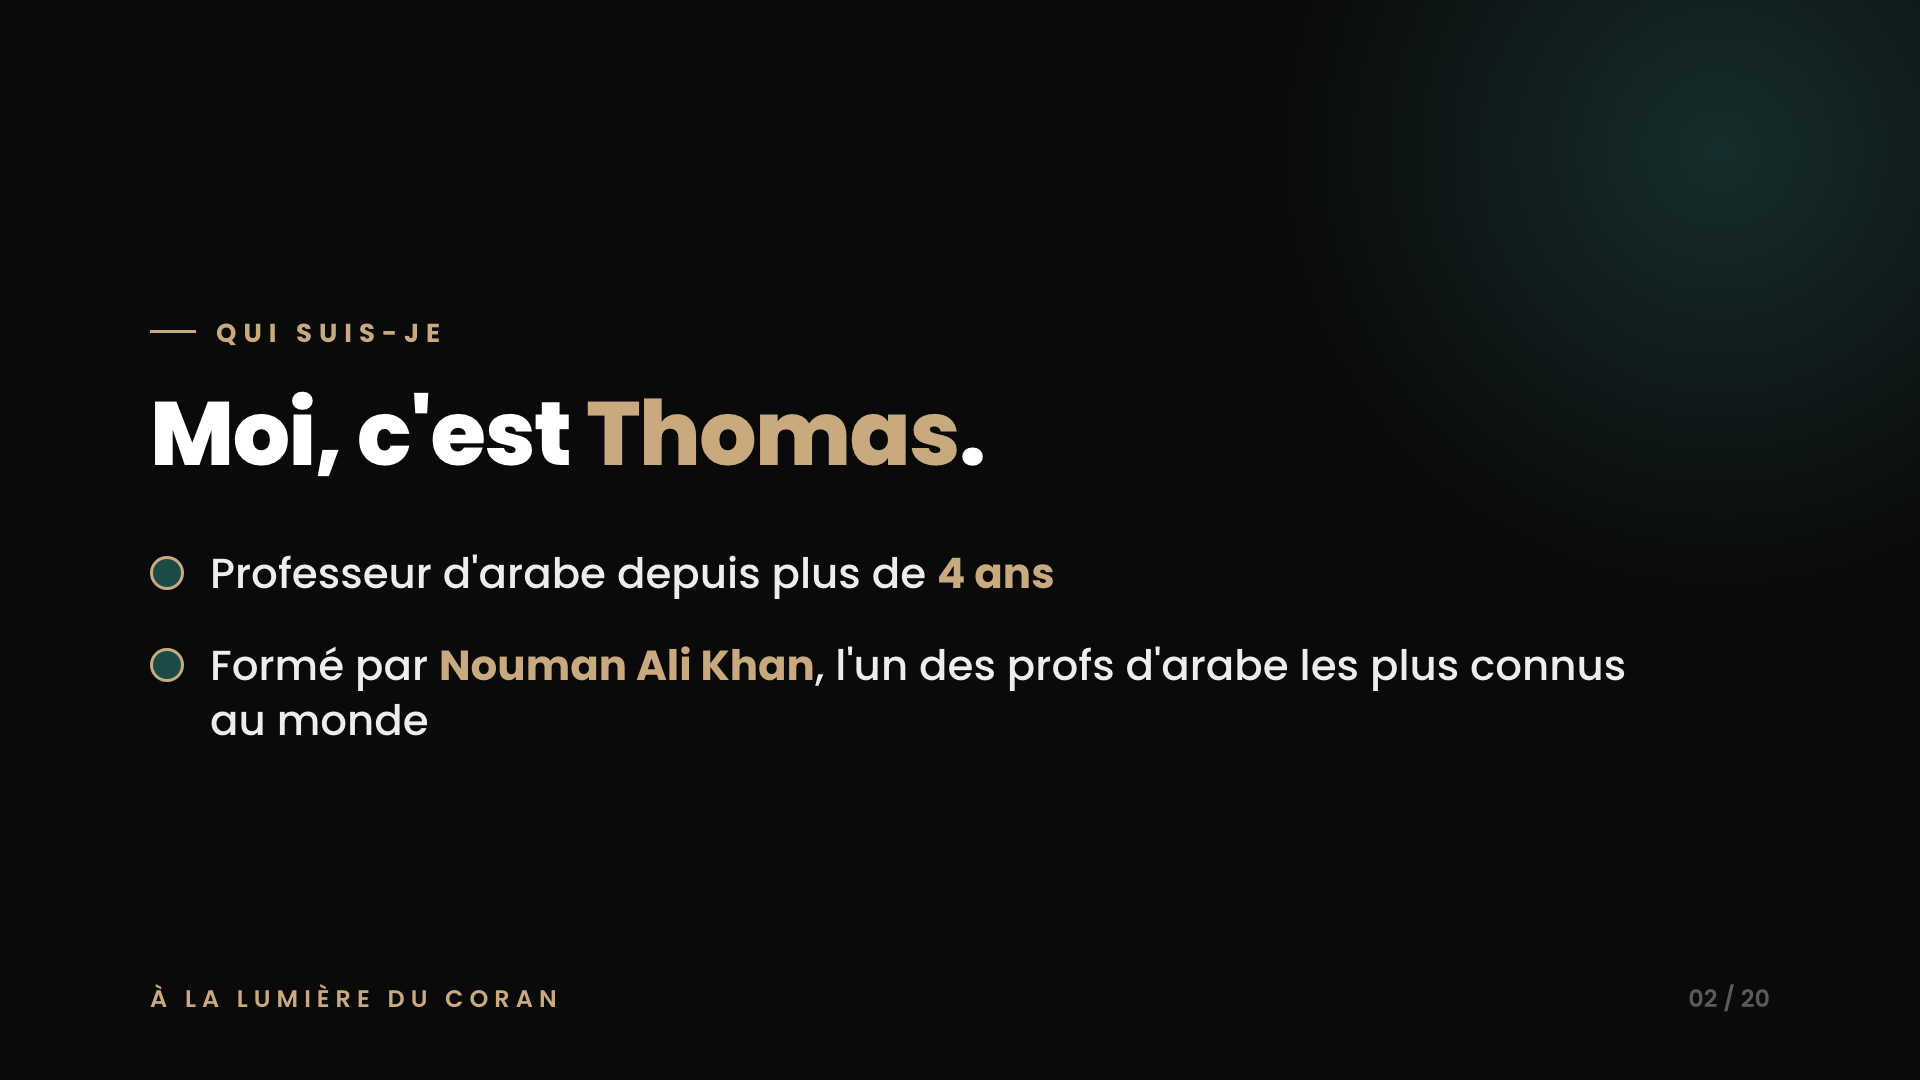
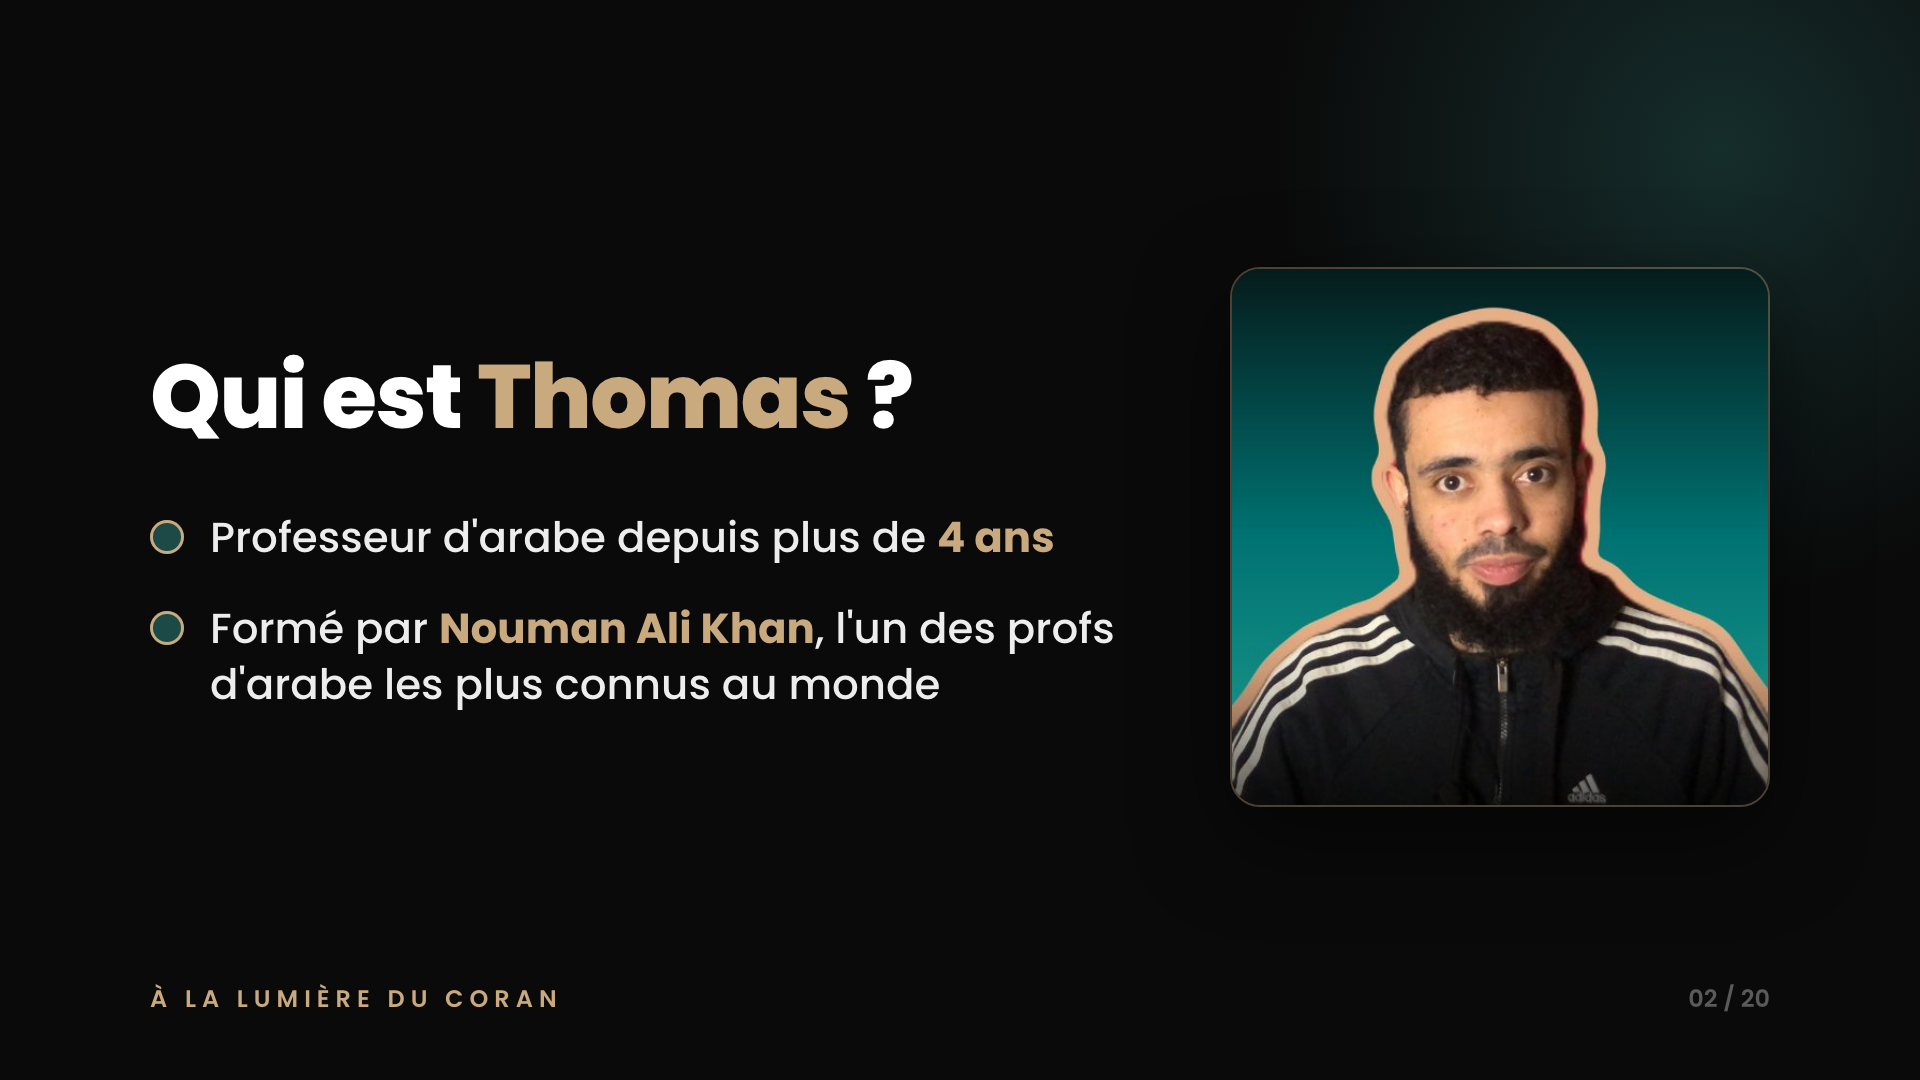
Slide 2 : Qui est Thomas ? + photo (layout 2 colonnes)

Changed region(s): [[0.0625, 0.2444, 0.9375, 0.7333], [0.0625, 0.3056, 0.5312, 0.4583], [0.8125, 0.7028, 0.8438, 0.7639]]

diff --git a/slides/deck.html b/slides/deck.html
@@ -31,6 +31,11 @@
   h1{font-weight:800;font-size:90px;line-height:1.04;letter-spacing:-1.5px;position:relative;z-index:2;max-width:1500px}
   .center h1{font-size:104px;max-width:1500px}
   .slide.sm h1{font-size:62px;line-height:1.14}
+  /* layout 2 colonnes avec photo */
+  .slide.split{flex-direction:row;align-items:center;gap:96px}
+  .slide.split .col-text{flex:1 1 auto;min-width:0}
+  .slide.split .col-img{flex:0 0 540px;position:relative;z-index:3}
+  .slide.split .col-img img{width:540px;height:540px;object-fit:cover;border-radius:30px;border:2px solid rgba(201,169,126,.35);box-shadow:0 30px 90px rgba(0,0,0,.55)}
   h1 .g{color:var(--gold)} h1 .v{color:var(--green)}
 
   .sub{color:var(--grey);font-size:40px;line-height:1.42;margin-top:40px;max-width:1380px;font-weight:400;position:relative;z-index:2}
@@ -57,7 +62,7 @@
 <script>
 const S = [
   {k:"On recrute", sm:true, t:`Actuellement, nous recherchons des <span class="g">setters</span> et des <span class="v">closers</span> <span style="color:#9a9a9a;font-weight:600">(homme / femme)</span> pour notre institut d'arabe coranique.`, sub:`Je t'invite à bien regarder cette vidéo en entier pour comprendre ce qu'on recherche — et ce qu'on ne recherche pas.`},
-  {k:"Qui suis-je", t:`Moi, c'est <span class="g">Thomas</span>.`, bullets:[`Professeur d'arabe depuis plus de <b>4 ans</b>`,`Formé par <b>Nouman Ali Khan</b>, l'un des profs d'arabe les plus connus au monde`]},
+  {t:`Qui est <span class="g">Thomas</span> ?`, img:"thomas.jpg", bullets:[`Professeur d'arabe depuis plus de <b>4 ans</b>`,`Formé par <b>Nouman Ali Khan</b>, l'un des profs d'arabe les plus connus au monde`]},
   {k:"Mon parcours", t:`J'avais tout essayé pour <span class="g">apprendre l'arabe</span>…`, sub:`Rien n'avait fonctionné, jusqu'à ce que je découvre cette méthode. J'ai donc vécu exactement ce que vivent les élèves qu'on accompagne — je connais leurs blocages et ce dont ils ont besoin.`},
   {k:"L'institut", center:true, sm:true, t:`L'objectif de notre institut est de devenir <span class="g">la référence numéro 1</span> de l'apprentissage de l'arabe.`},
   {t:`Et pour ça,<br>on a besoin <span class="g">de toi.</span>`, center:true},
@@ -80,12 +85,15 @@ const S = [
 
 function render(i){
   const s = S[i];
-  let h = `<div class="slide show${s.center?' center':''}${s.sm?' sm':''}">`;
+  const split = !!s.img;
+  let h = `<div class="slide show${s.center?' center':''}${s.sm?' sm':''}${split?' split':''}">`;
+  if(split) h += `<div class="col-text">`;
   if(s.k) h += `<div class="kicker">${s.k}</div>`;
   if(s.t) h += `<h1>${s.t}</h1>`;
   if(s.sub) h += `<div class="sub">${s.sub}</div>`;
   if(s.bullets){h+=`<ul>`;s.bullets.forEach(b=>h+=`<li><span class="dot"></span><span>${b}</span></li>`);h+=`</ul>`;}
   if(s.pair){h+=`<div class="pair">`;s.pair.forEach(p=>h+=`<div class="pcard"><div class="num">${p.num}</div><div class="lbl">${p.lbl}</div></div>`);h+=`</div>`;}
+  if(split) h += `</div><div class="col-img"><img src="${s.img}" alt="Thomas"></div>`;
   h += `<footer><div class="brand">À la lumière du Coran</div><div class="pageno">${String(i+1).padStart(2,'0')} / ${String(S.length).padStart(2,'0')}</div></footer>`;
   h += `</div>`;
   document.getElementById('root').innerHTML = h;
